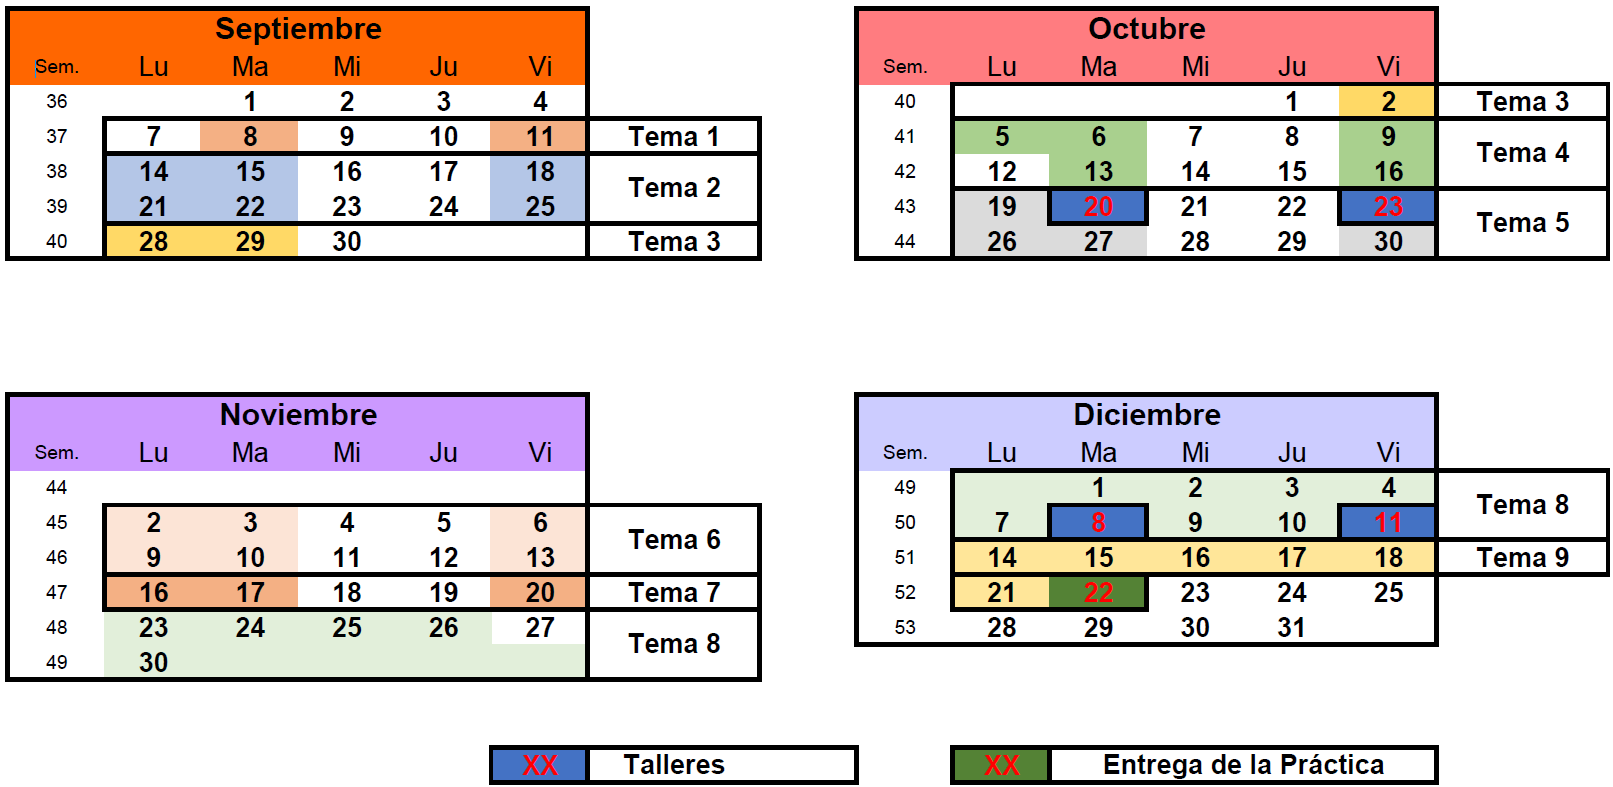
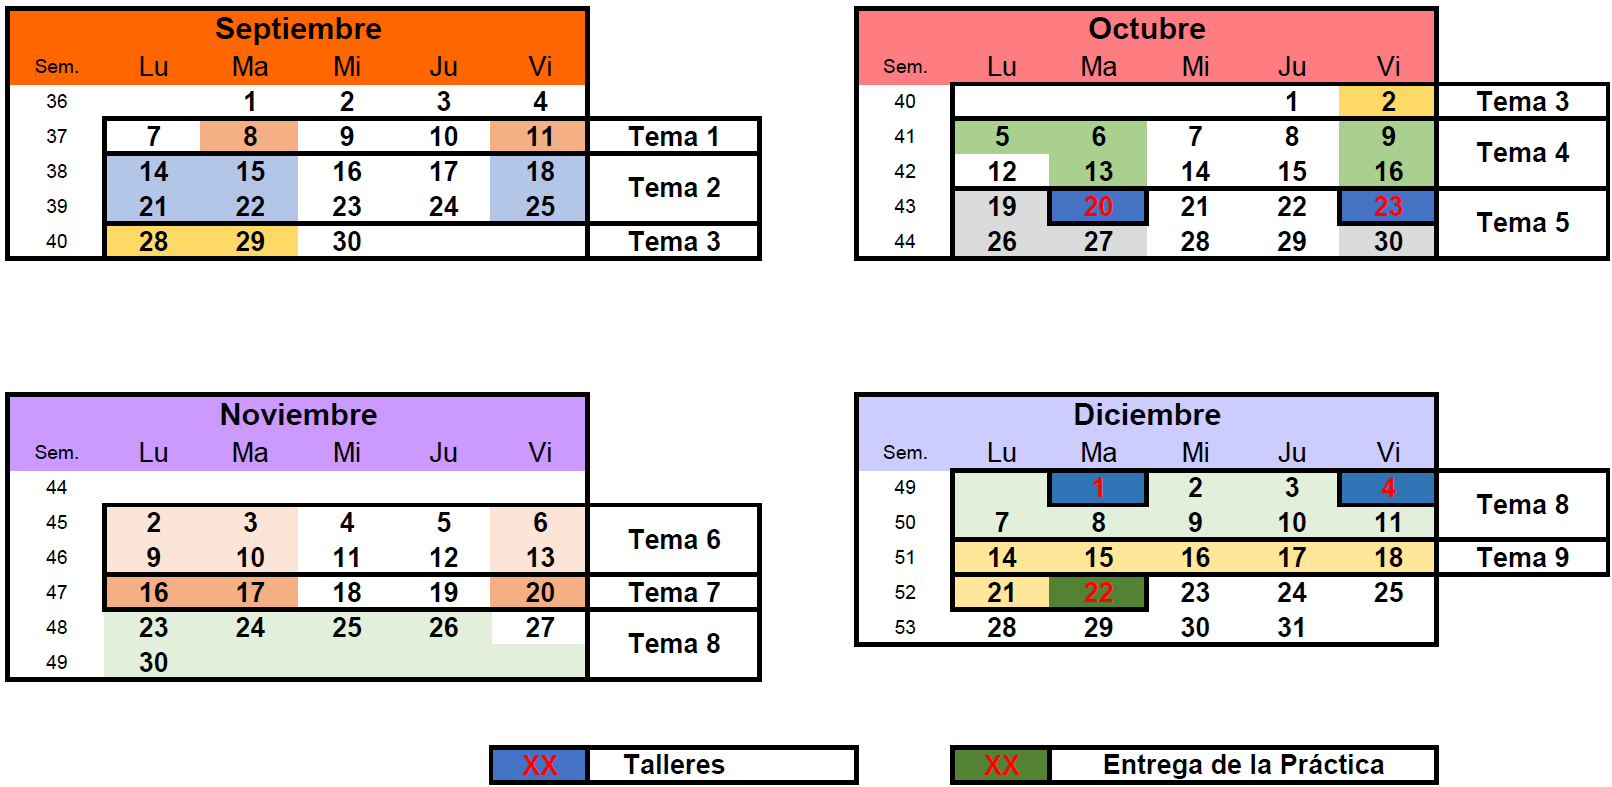
Built site for gh-pages

diff --git a/es/informaciones/guia-docente.html b/es/informaciones/guia-docente.html
@@ -592,7 +592,7 @@ ul.task-list li input[type="checkbox"] {
 </section>
 <section id="contenidos" class="level2">
 <h2 class="anchored" data-anchor-id="contenidos">Contenidos</h2>
-<p>Tema 1: Fundamentos, Entornos Modernos y Asistentes IA (2 horas presenciales, 3 horas no presenciales)</p>
+<p>Tema 1: Fundamentos, Entornos Modernos y Asistentes IA (4 horas presenciales, 6 horas no presenciales)</p>
 <ul>
 <li>1.1. Concepto de programa, lenguajes de alto nivel (Python) y el proceso de interpretación.</li>
 <li>1.2. Introducción a Visual Studio Code (VS Code).</li>
@@ -652,7 +652,7 @@ ul.task-list li input[type="checkbox"] {
 <li>8.4. SymPy: cálculo simbólico, simplificación y resolución de ecuaciones.</li>
 <li>8.5. SymPy: derivación e integración.</li>
 </ul>
-<p>Tema 9: Diseño Algorítmico y Resolución de Problemas (6 horas presenciales, 9 horas no presenciales)</p>
+<p>Tema 9: Diseño Algorítmico y Resolución de Problemas (4 horas presenciales, 6 horas no presenciales)</p>
 <ul>
 <li>9.1. Estrategias para dividir un problema en subrutinas independientes.</li>
 <li>9.2. Diseño descendente (Top-Down) y diseño ascendente (Bottom-Up).</li>

diff --git a/ca/informacions/guia-docent.html b/ca/informacions/guia-docent.html
@@ -592,7 +592,7 @@ ul.task-list li input[type="checkbox"] {
 </section>
 <section id="continguts" class="level2">
 <h2 class="anchored" data-anchor-id="continguts">Continguts</h2>
-<p>Tema 1: Fonaments, Entorns Moderns i Assistents d’IA (2 hores presencials, 3 hores no presencials)</p>
+<p>Tema 1: Fonaments, Entorns Moderns i Assistents d’IA (4 hores presencials, 6 hores no presencials)</p>
 <ul>
 <li>1.1. Concepte de programa, llenguatges d’alt nivell (Python) i el procés d’interpretació.</li>
 <li>1.2. Introducció a Visual Studio Code (VS Code).</li>
@@ -652,7 +652,7 @@ ul.task-list li input[type="checkbox"] {
 <li>8.4. SymPy: càlcul simbòlic, simplificació i resolució d’equacions.</li>
 <li>8.5. SymPy: derivació i integració.</li>
 </ul>
-<p>Tema 9: Disseny Algorítmic i Resolució de Problemes (6 hores presencials, 9 hores no presencials)</p>
+<p>Tema 9: Disseny Algorítmic i Resolució de Problemes (4 hores presencials, 6 hores no presencials)</p>
 <ul>
 <li>9.1. Estratègies per dividir un problema en subrutines independents.</li>
 <li>9.2. Disseny descendent (Top-Down) i disseny ascendent (Bottom-Up).</li>
